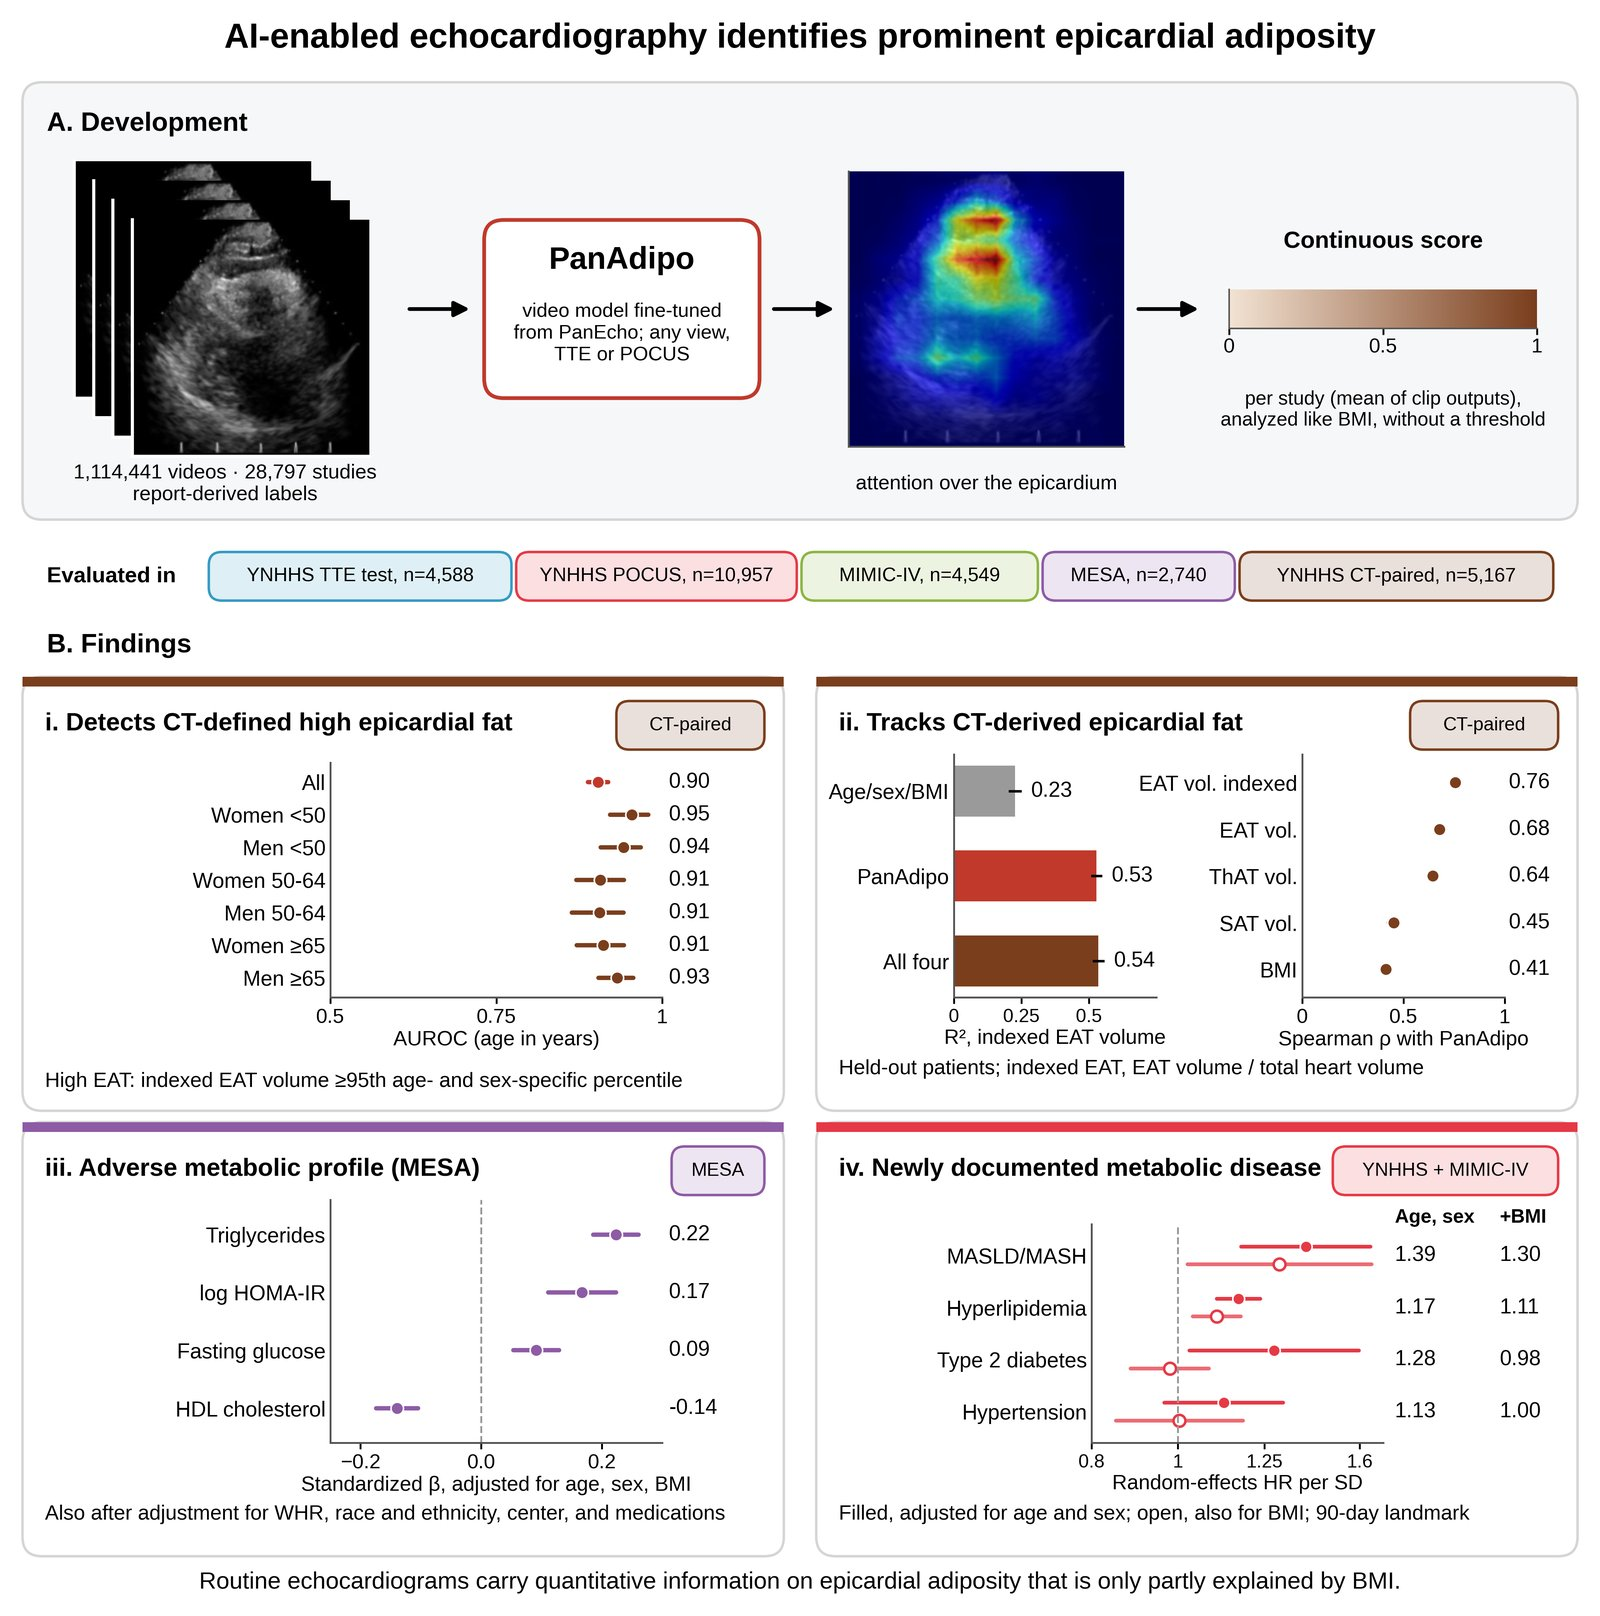
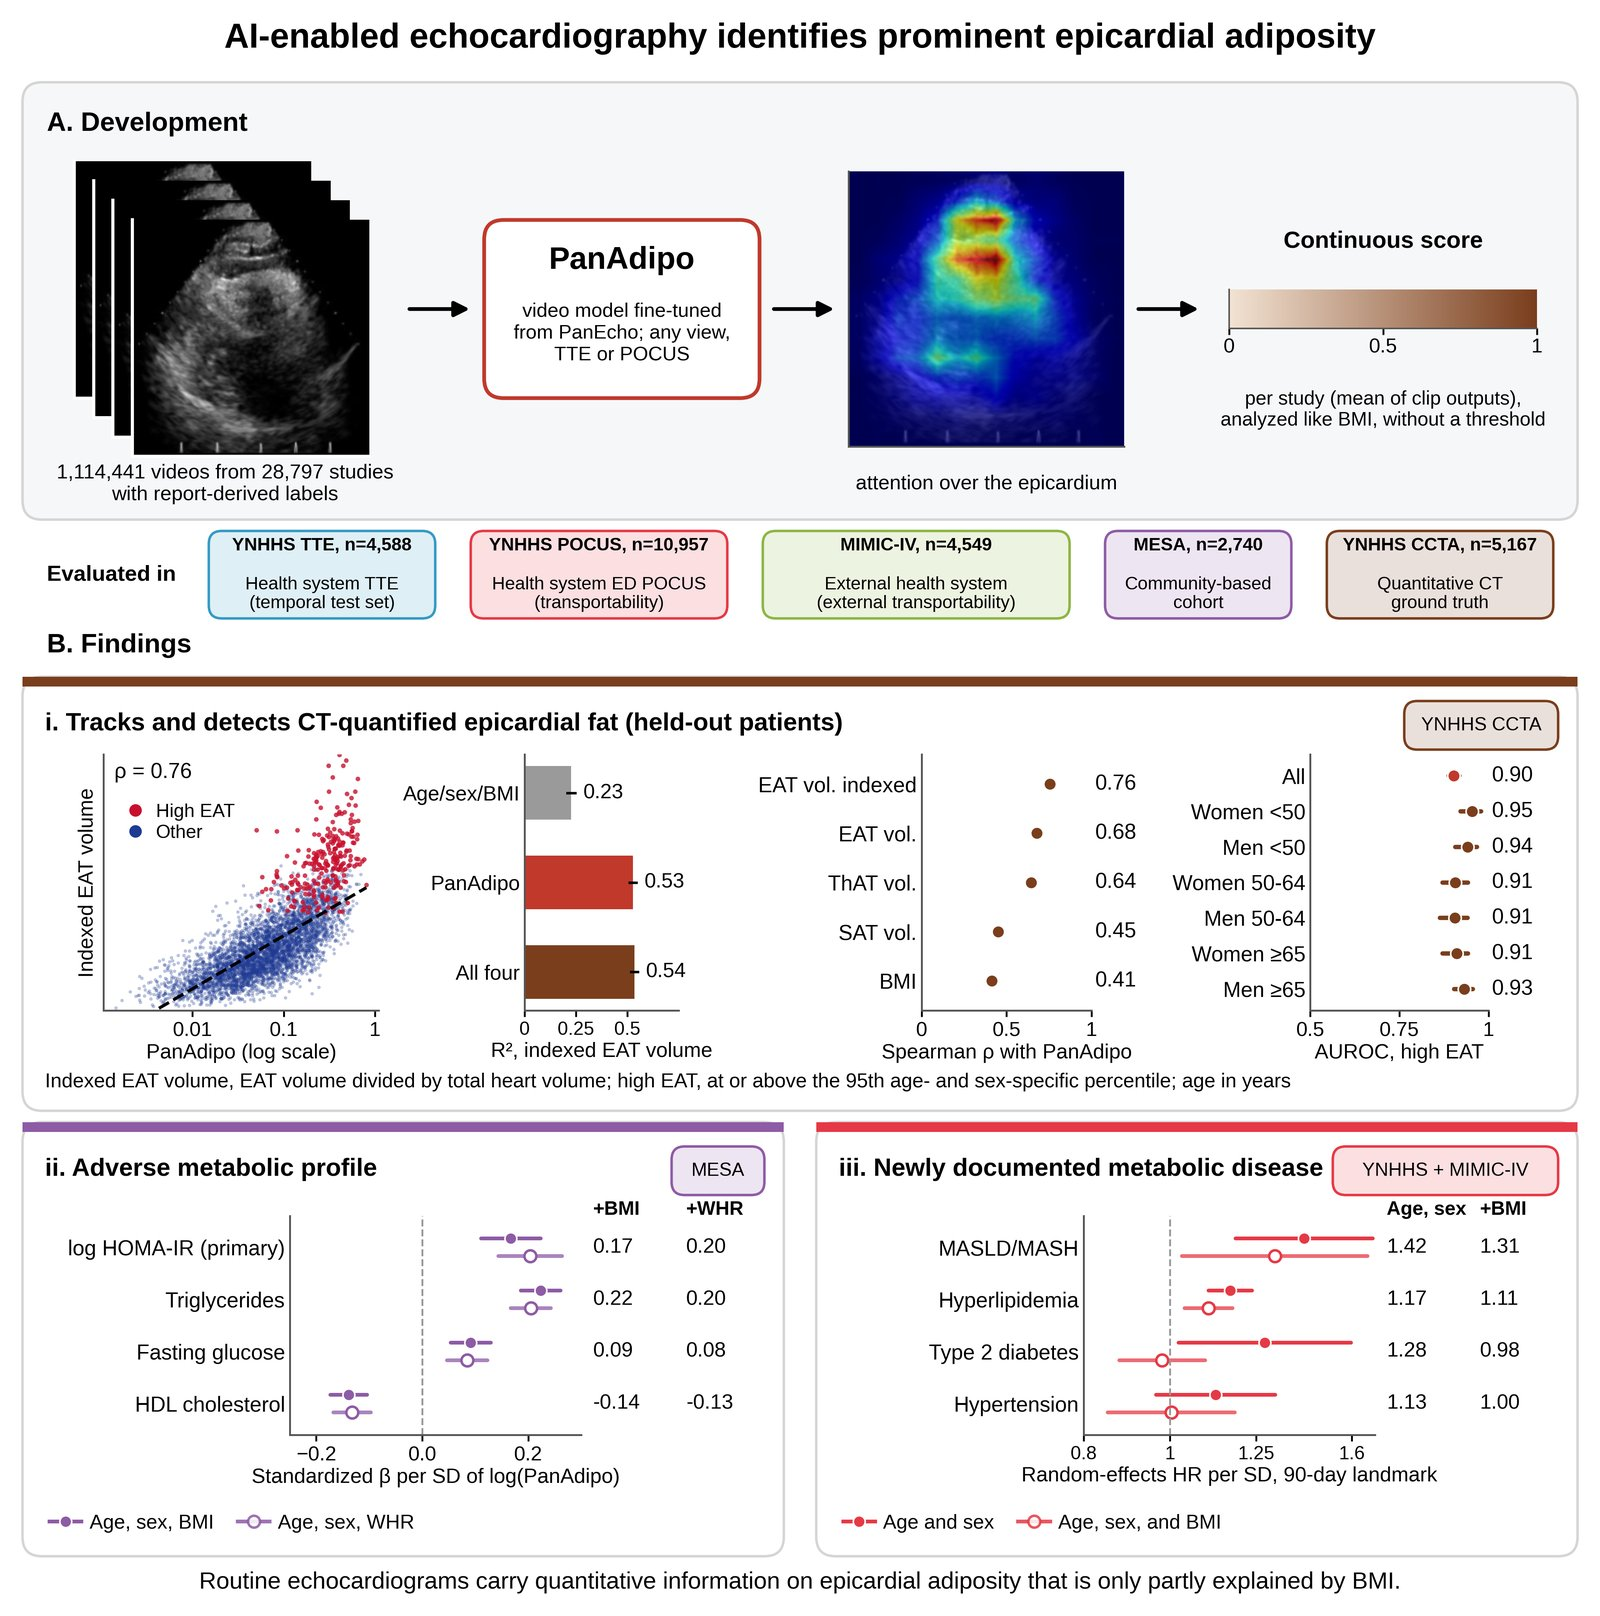
Align figures with latest manuscript: new central illustration, updated Figure 2A example (zoomed on the heart)

diff --git a/docs/index.html b/docs/index.html
@@ -66,6 +66,7 @@
   .step p { font-size: 13.5px; color: var(--text-secondary); margin: 0; }
   figure { margin: 18px 0 0; }
   figure img { width: 100%; border-radius: 10px; border: 1px solid var(--border); background: #fff; }
+  .hero figure { max-width: 860px; margin: 22px auto 0; }
   figcaption { font-size: 12.5px; color: var(--text-muted); margin-top: 6px; }
   .calc { display: grid; grid-template-columns: 300px 1fr; gap: 18px; align-items: start; }
   .field { margin-bottom: 14px; }
@@ -138,6 +139,8 @@
       prominent epicardial fat, and maps the score to CT-measured epicardial adipose tissue (EAT), with an
       age- and sex-specific nomogram.</p>
     <div class="kpis" id="kpis"></div>
+    <figure><img src="figures/central_illustration.jpg" alt="Central illustration: PanAdipo development and evaluation cohorts, and findings for CT-quantified epicardial fat, metabolic profile in MESA, and newly documented metabolic disease" loading="lazy">
+      <figcaption>Study overview (central illustration).</figcaption></figure>
   </div>
 
   <section id="how">
